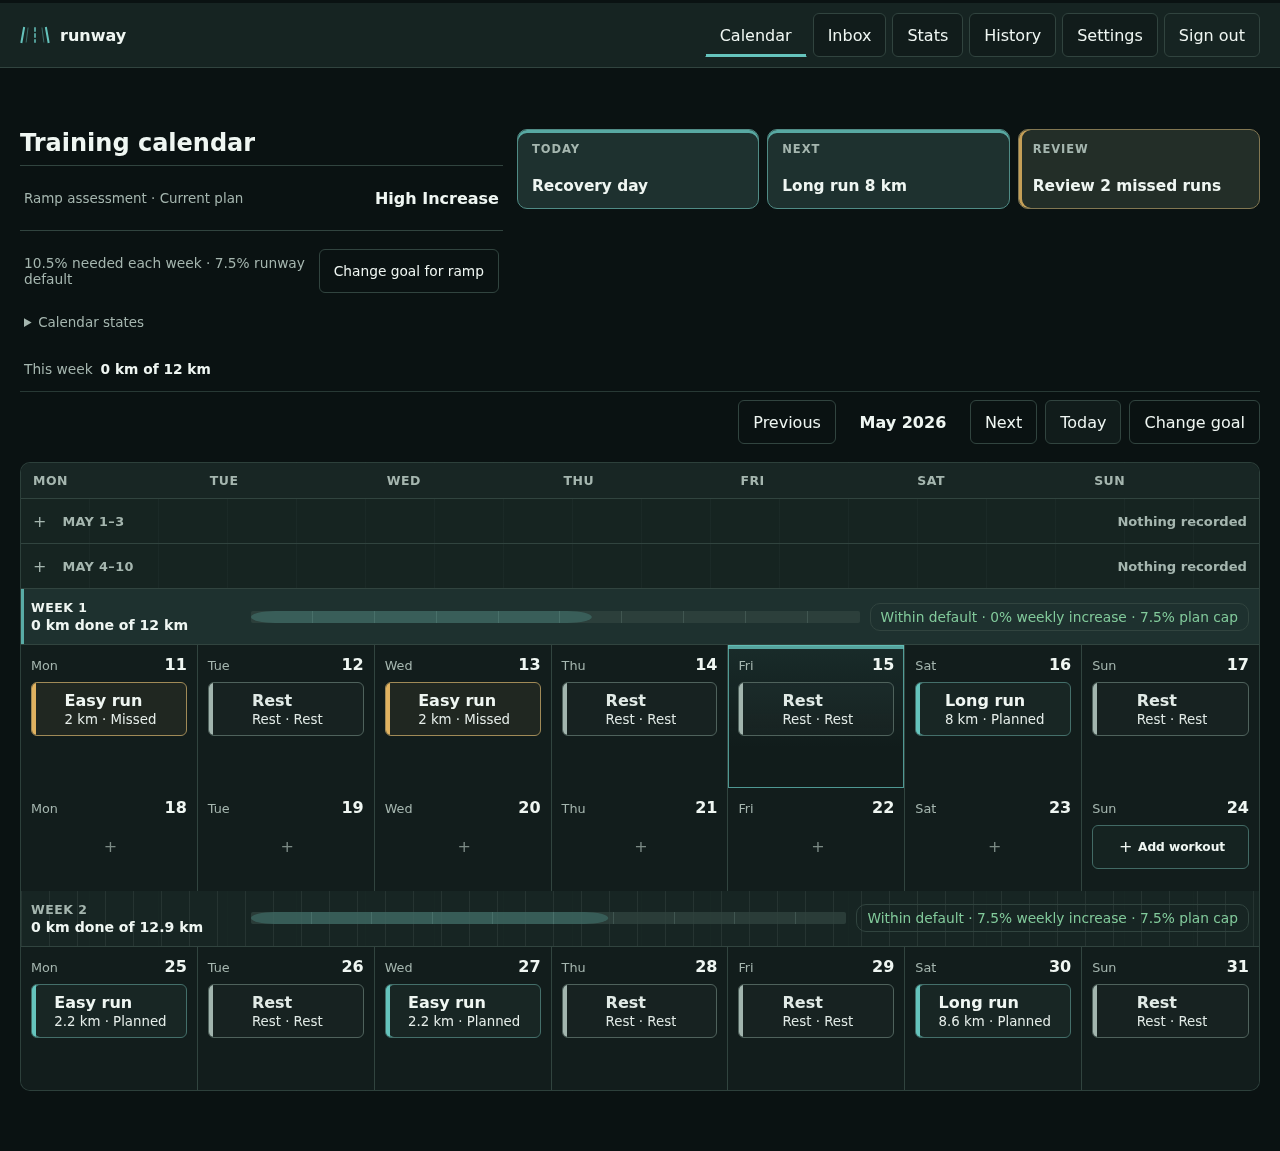
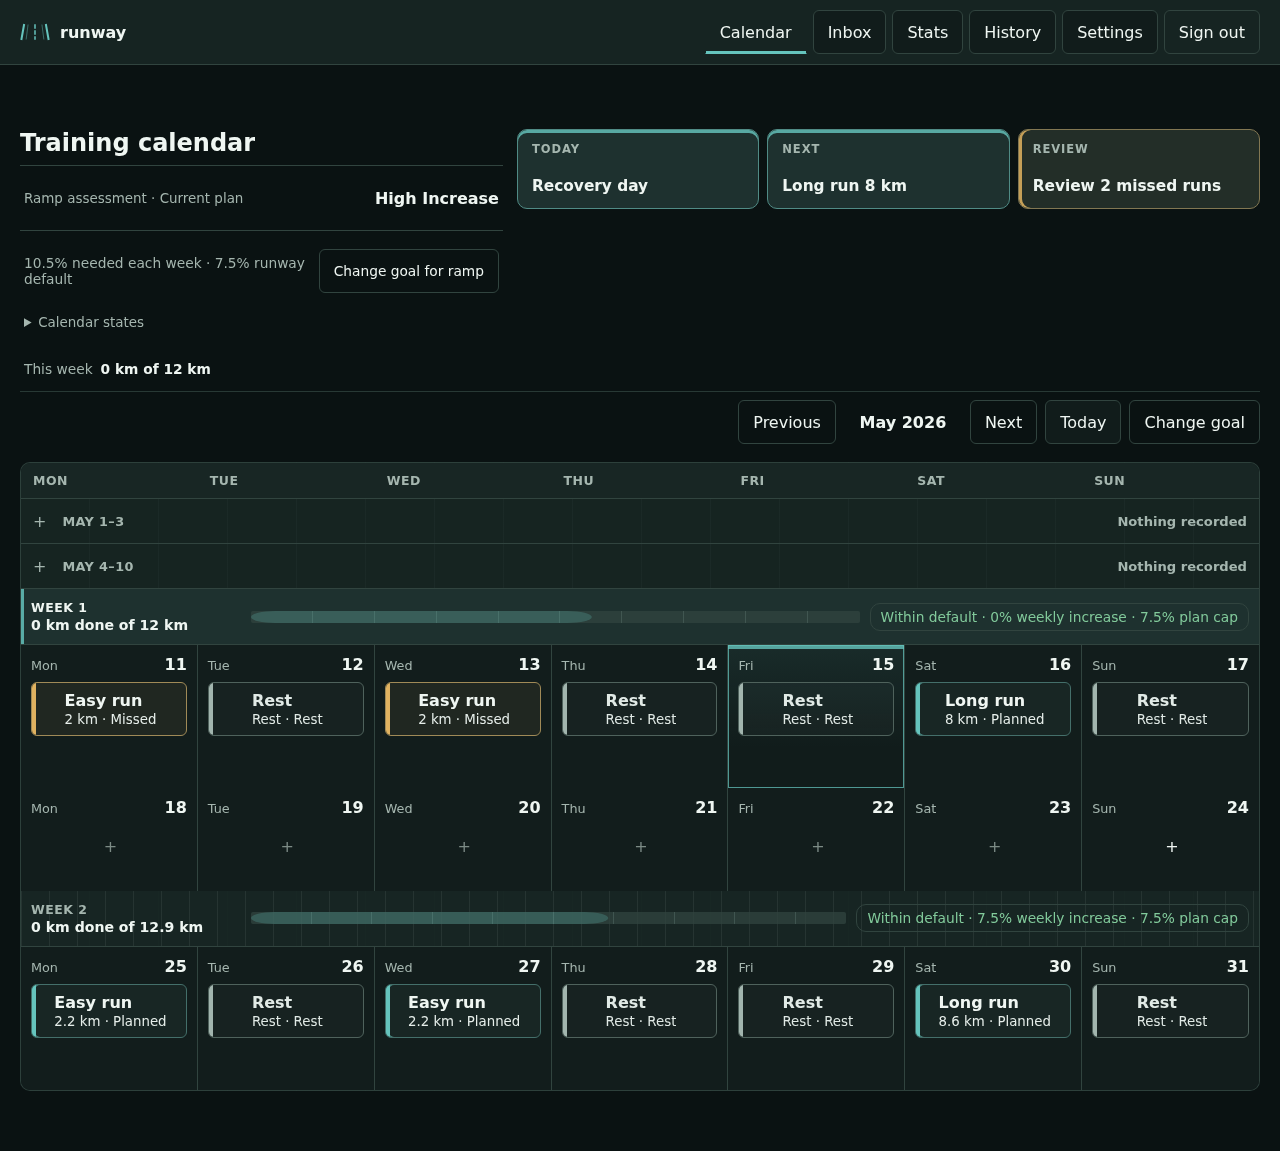
fix: stabilize the visual release gate

Changed region(s): [[0.5312, 0.0, 0.9688, 0.0608], [0.875, 0.7298, 0.9688, 0.7602], [0.0312, 0.0, 0.0938, 0.0608]]

diff --git a/tests/visual/runway.visual.ts b/tests/visual/runway.visual.ts
@@ -46,6 +46,7 @@ for (const viewport of viewports) {
 
 			await page.goto('/app');
 			await expect(page.getByRole('heading', { name: 'Training calendar' })).toBeVisible();
+			await waitForCalendarReady(page);
 			await stableScreenshot(page, `calendar-${viewport.name}.png`);
 
 			await page
@@ -93,8 +94,21 @@ test('dark mode app state has visual coverage', async ({ page }) => {
 	await seedVisualAccount(page, 'dark');
 	await page.goto('/app');
 	await expect(page.getByRole('heading', { name: 'Training calendar' })).toBeVisible();
+	await expect
+		.poll(() =>
+			page.evaluate(() => ({
+				systemDark: window.matchMedia('(prefers-color-scheme: dark)').matches,
+				canvas: getComputedStyle(document.documentElement).getPropertyValue('--canvas').trim()
+			}))
+		)
+		.toEqual({ systemDark: true, canvas: '#0a1212' });
+	await waitForCalendarReady(page);
 	await stableScreenshot(page, 'calendar-dark-desktop.png');
 });
+
+async function waitForCalendarReady(page: Page) {
+	await expect(page.locator('section.training-shell')).toHaveAttribute('data-hydrated', 'true');
+}
 
 async function seedVisualAccount(page: Page, fixtureName: string) {
 	const email = `visual-${fixtureName}@example.test`;
@@ -229,6 +243,8 @@ async function createImportRecords(page: Page) {
 }
 
 async function stableScreenshot(page: Page, name: string) {
+	await normalizeVisualSafeArea(page);
+	await page.mouse.move(1, 1);
 	await page.evaluate(() => document.fonts.ready.then(() => undefined));
 	await page.evaluate(() => {
 		window.scrollTo(0, 0);
@@ -242,10 +258,20 @@ async function stableScreenshot(page: Page, name: string) {
 }
 
 async function stableElementScreenshot(locator: ReturnType<Page['getByRole']>, name: string) {
+	await normalizeVisualSafeArea(locator.page());
+	await locator.page().mouse.move(1, 1);
 	await locator.page().evaluate(() => document.fonts.ready.then(() => undefined));
 	await expect(locator).toHaveScreenshot(name, {
 		animations: 'disabled',
 		caret: 'hide'
+	});
+}
+
+async function normalizeVisualSafeArea(page: Page) {
+	await page.evaluate(() => {
+		for (const edge of ['top', 'right', 'bottom', 'left']) {
+			document.documentElement.style.setProperty(`--safe-area-${edge}`, '0px', 'important');
+		}
 	});
 }
 

diff --git a/README.md b/README.md
@@ -108,7 +108,7 @@ the restricted `runway_runtime` account in `APP_DATABASE_URL`. Put the generated
 artifact and deliberately refuses plain-HTTP public origins. The minimum relevant `.env` values are:
 
 ```dotenv
-RUNWAY_IMAGE="ghcr.io/deftmartian/runway:v0.2.0"
+RUNWAY_IMAGE="ghcr.io/deftmartian/runway:v0.2.1"
 POSTGRES_PASSWORD="<first generated value>"
 MIGRATION_DATABASE_URL="postgres://runway:<first generated value>@db:5432/runway"
 APP_DATABASE_URL="postgres://runway_runtime:<second generated value>@db:5432/runway"